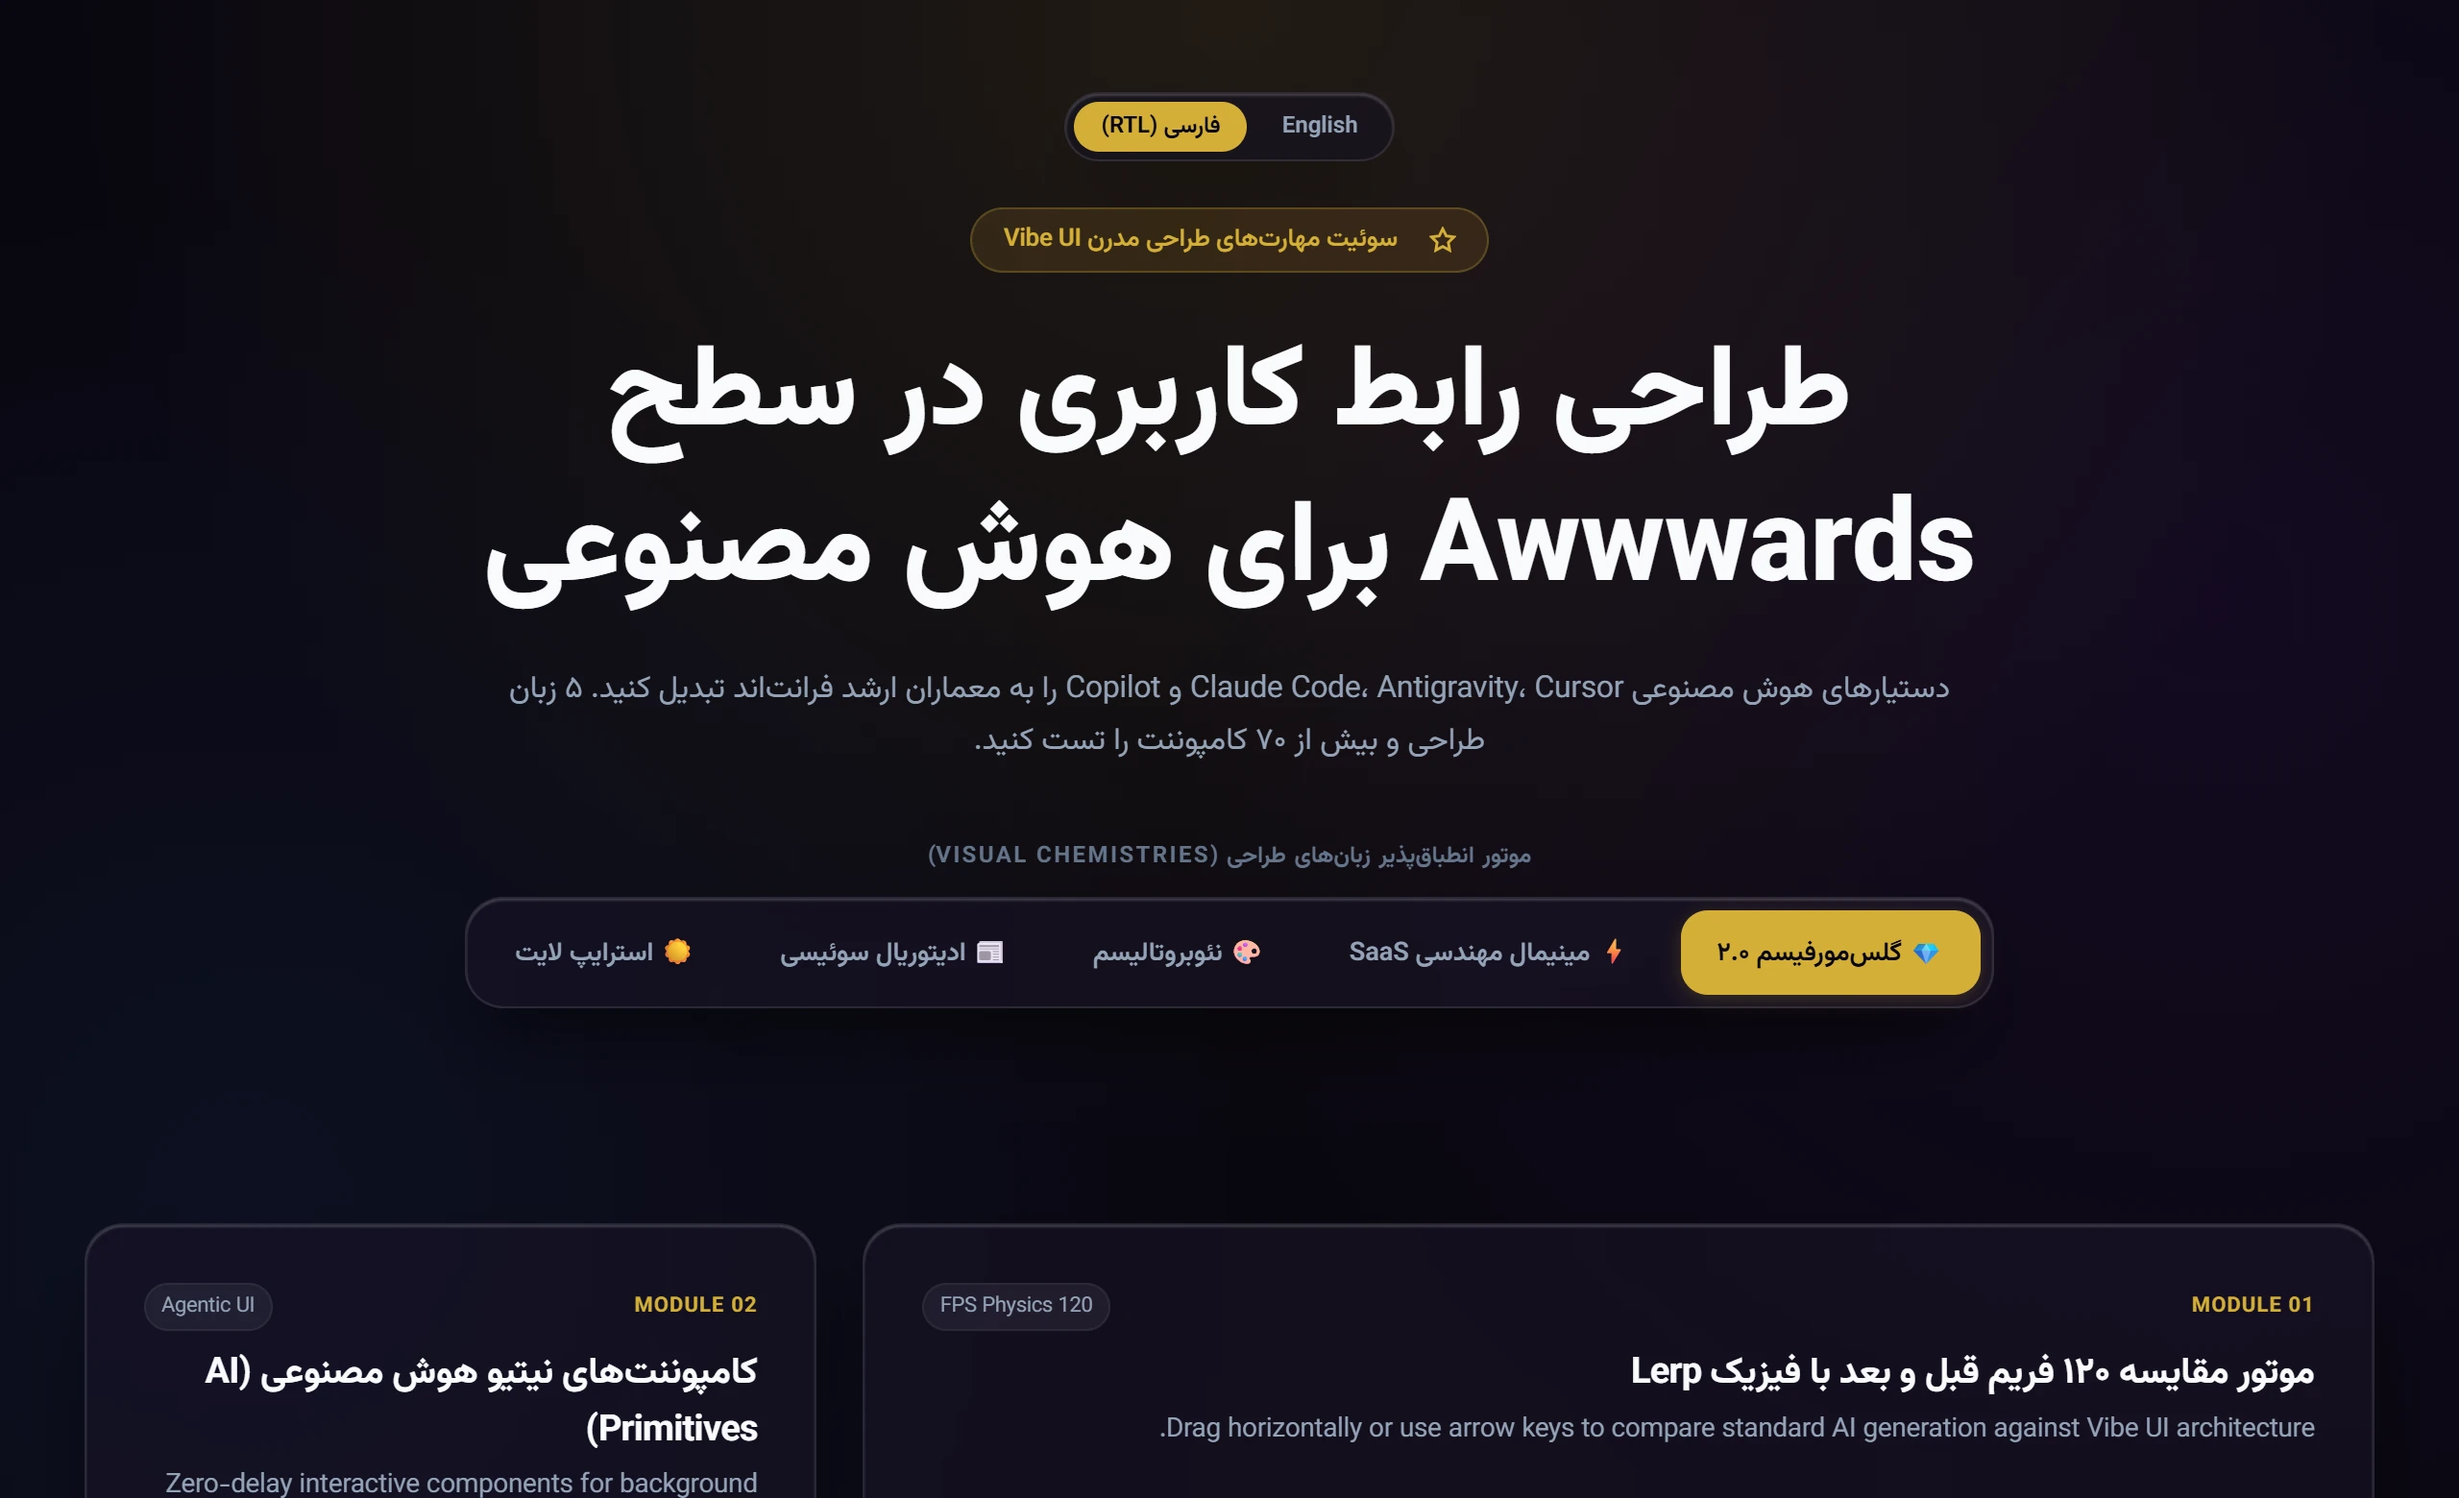
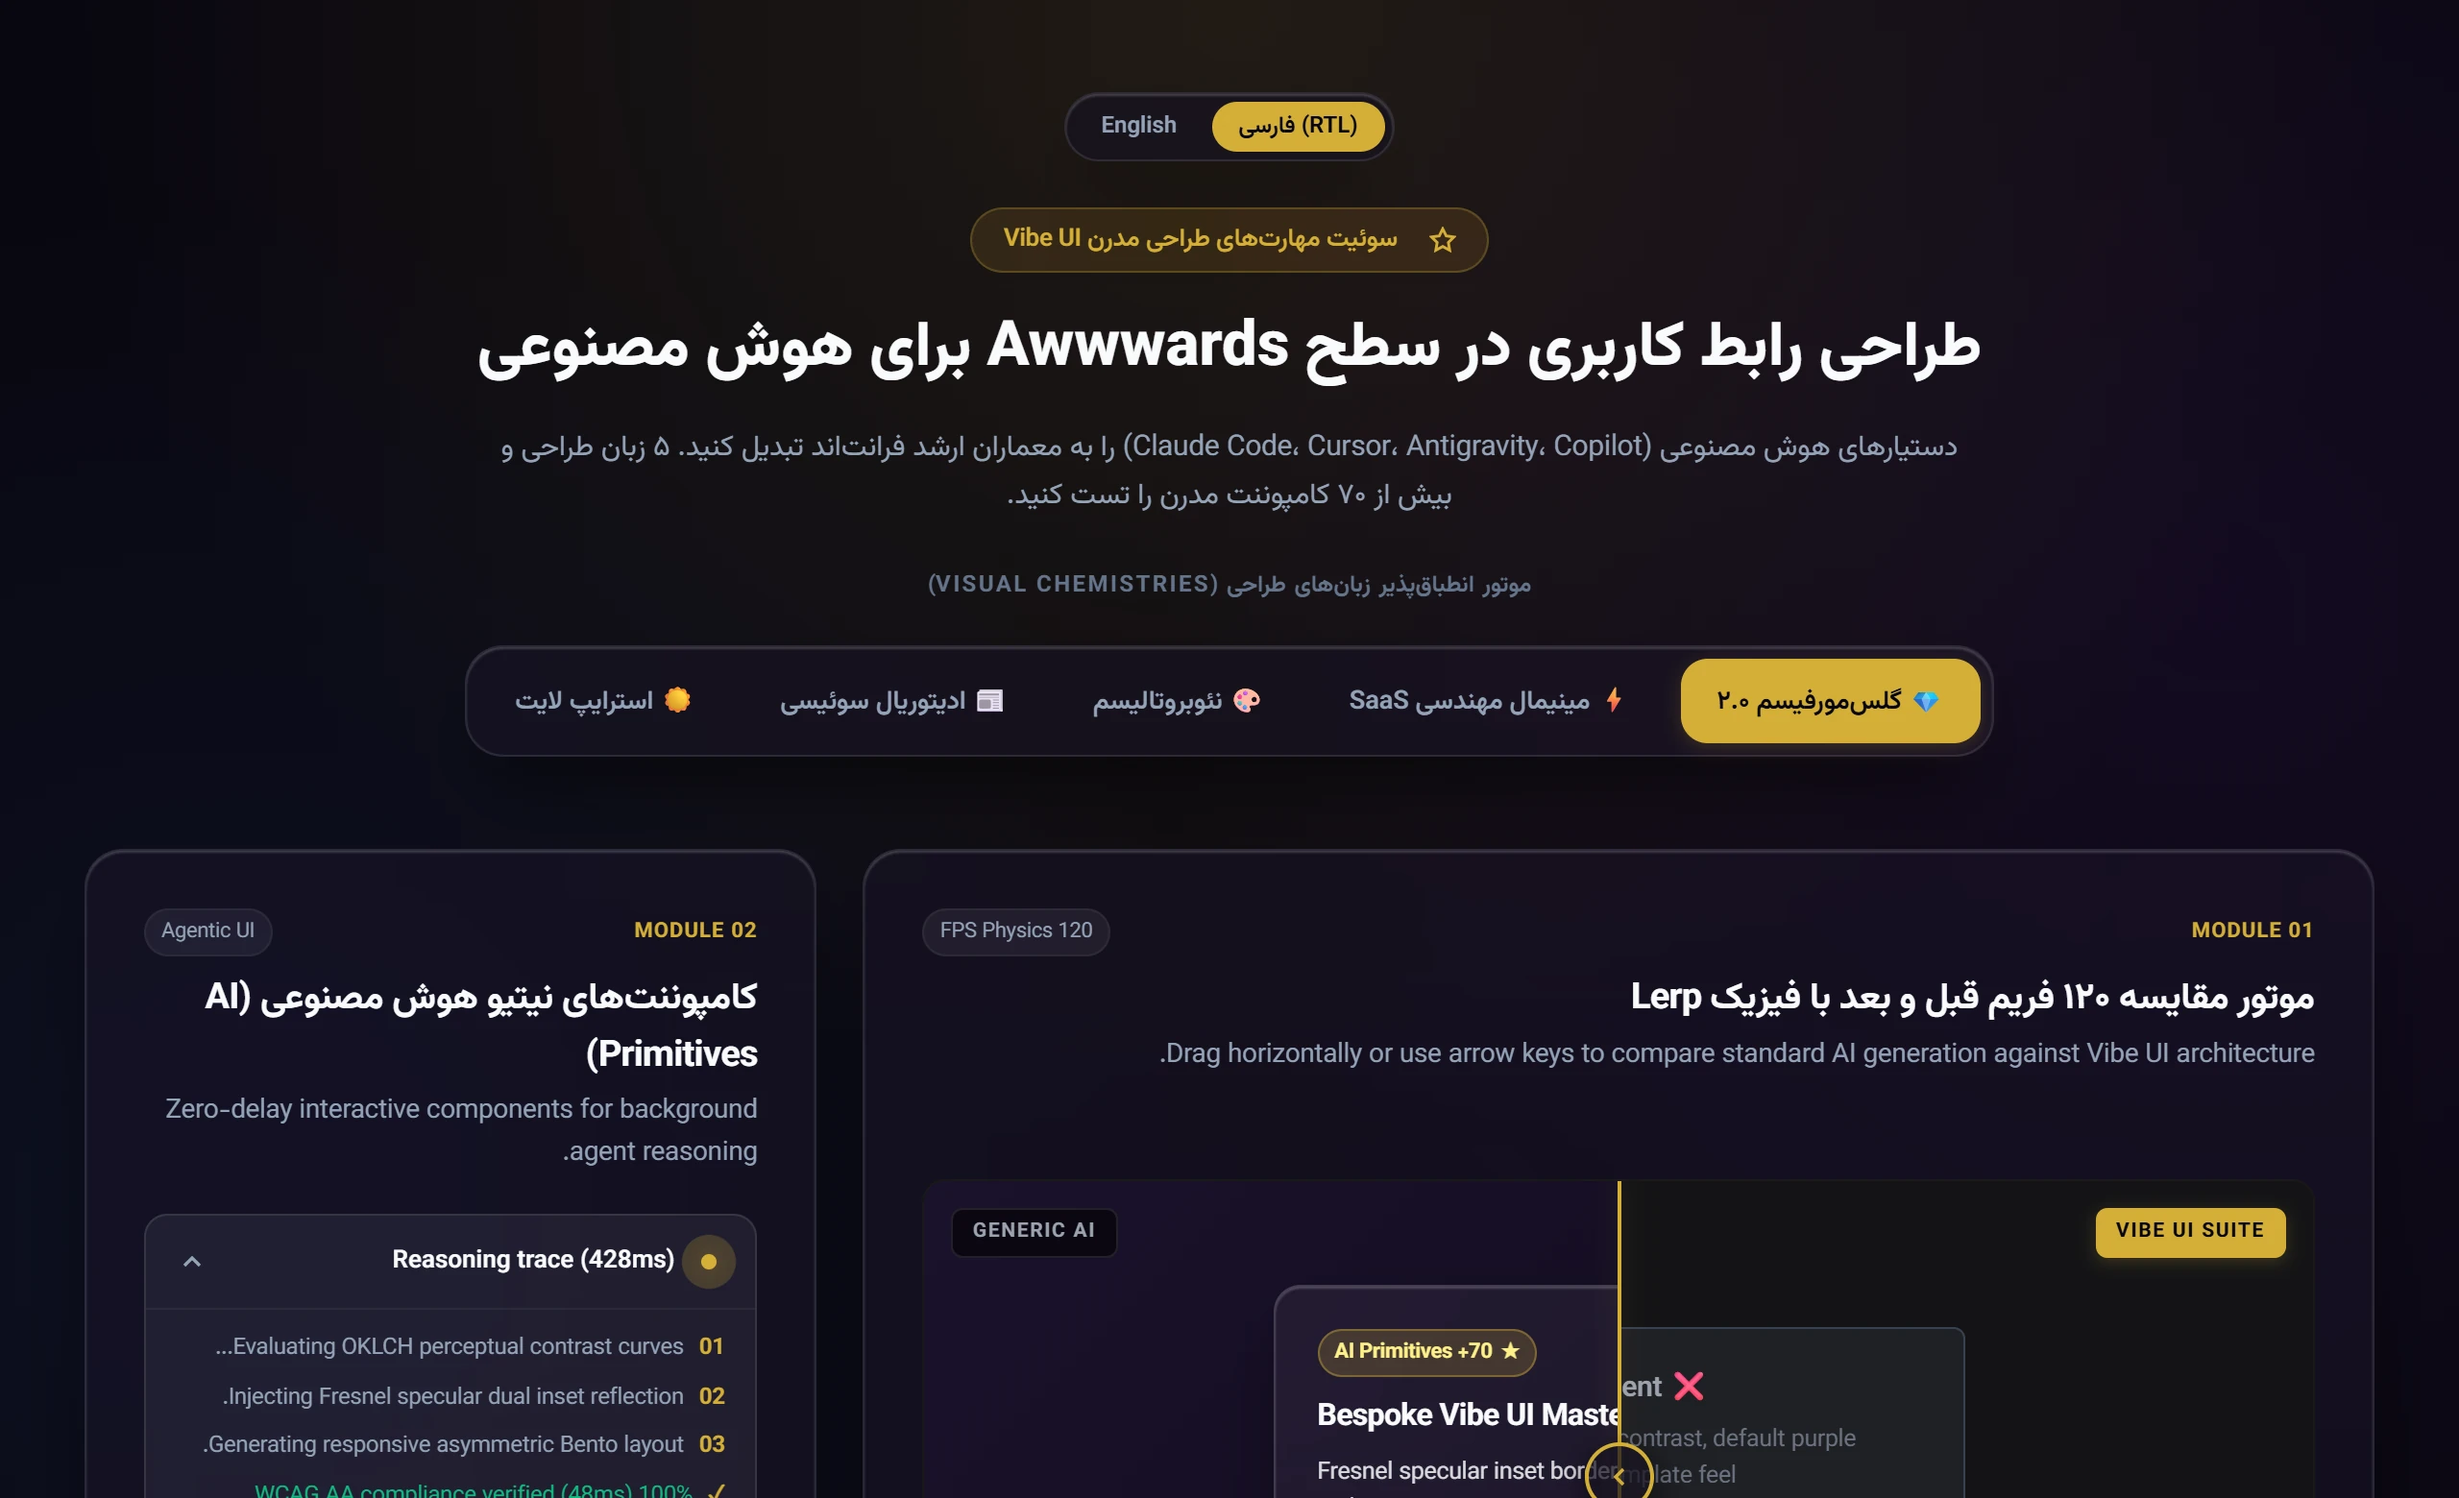
style(rtl): fit Persian hero title into 1 elegant line with clamp and perfect symmetry

diff --git a/index.html b/index.html
@@ -36,7 +36,7 @@
        CSS Custom Properties & Design Tokens for 5 Master Visual Themes
        ========================================================================== */
     
-    /* RTL & Persian Typography (Universal Match & Center Alignment) */
+    /* RTL & Persian Typography (Pixel-Perfect Symmetry & 1-Line Title) */
     html[dir="rtl"],
     html[dir="rtl"] body,
     html[dir="rtl"] *,
@@ -46,38 +46,82 @@
     [dir="rtl"] * {
       font-family: 'Vazirmatn', -apple-system, BlinkMacSystemFont, 'Segoe UI', Roboto, sans-serif !important;
     }
+    
     html[dir="rtl"] header,
     body[dir="rtl"] header {
-      text-align: center !important;
       display: flex !important;
       flex-direction: column !important;
       align-items: center !important;
-      justify-content: center !important;
-    }
-    html[dir="rtl"] h1,
-    body[dir="rtl"] h1 {
       text-align: center !important;
+      width: 100% !important;
       margin-left: auto !important;
       margin-right: auto !important;
-      max-width: 920px !important;
-      letter-spacing: normal !important;
-      line-height: 1.35 !important;
-      font-weight: 800 !important;
+      margin-bottom: 48px !important;
     }
-    html[dir="rtl"] .subtitle,
-    body[dir="rtl"] .subtitle {
-      text-align: center !important;
-      margin-left: auto !important;
-      margin-right: auto !important;
-      max-width: 780px !important;
-      line-height: 1.7 !important;
-      font-size: 16px !important;
+
+    html[dir="rtl"] .lang-switcher,
+    body[dir="rtl"] .lang-switcher {
+      margin: 0 auto 24px !important;
+      direction: ltr !important;
     }
+
     html[dir="rtl"] .badge-pill,
     body[dir="rtl"] .badge-pill {
-      margin-left: auto !important;
-      margin-right: auto !important;
+      margin: 0 auto 20px !important;
+      display: inline-flex !important;
+      align-items: center !important;
+      justify-content: center !important;
     }
+
+    html[dir="rtl"] h1,
+    body[dir="rtl"] h1 {
+      font-size: clamp(20px, 2.55vw, 36px) !important;
+      font-weight: 800 !important;
+      line-height: 1.3 !important;
+      letter-spacing: normal !important;
+      text-align: center !important;
+      width: 100% !important;
+      max-width: 1100px !important;
+      margin: 0 auto 16px !important;
+      display: block !important;
+      word-break: keep-all !important;
+    }
+
+    html[dir="rtl"] .subtitle,
+    body[dir="rtl"] .subtitle {
+      font-size: 15px !important;
+      line-height: 1.7 !important;
+      text-align: center !important;
+      max-width: 760px !important;
+      margin: 0 auto 24px !important;
+      color: var(--text-muted) !important;
+      display: block !important;
+    }
+
+    html[dir="rtl"] .style-switcher-container,
+    body[dir="rtl"] .style-switcher-container {
+      display: flex !important;
+      flex-direction: column !important;
+      align-items: center !important;
+      text-align: center !important;
+      width: 100% !important;
+      margin: 0 auto !important;
+    }
+
+    html[dir="rtl"] .style-switcher-label,
+    body[dir="rtl"] .style-switcher-label {
+      text-align: center !important;
+      margin-bottom: 10px !important;
+    }
+
+    html[dir="rtl"] .style-switcher,
+    body[dir="rtl"] .style-switcher {
+      display: inline-flex !important;
+      flex-wrap: wrap !important;
+      justify-content: center !important;
+      margin: 0 auto !important;
+    }
+
     html[dir="rtl"] .code-pill-text,
     html[dir="rtl"] .pill-tech,
     html[dir="rtl"] .telemetry-big-num,
@@ -86,6 +130,7 @@
     body[dir="rtl"] .telemetry-big-num {
       font-family: 'Geist Mono', 'Vazirmatn', monospace !important;
     }
+
     html[dir="rtl"] .badge-pill svg,
     html[dir="rtl"] .radar-pulse,
     html[dir="rtl"] .card-title svg,
@@ -2187,7 +2232,7 @@
       fa: {
         badge: "سوئیت مهارتهای طراحی مدرن Vibe UI",
         h1: "طراحی رابط کاربری در سطح Awwwards برای هوش مصنوعی",
-        subtitle: "دستیارهای هوش مصنوعی Claude Code، Antigravity، Cursor و Copilot را به معماران ارشد فرانتاند تبدیل کنید. ۵ زبان طراحی و بیش از ۷۰ کامپوننت را تست کنید.",
+        subtitle: "دستیارهای هوش مصنوعی (Claude Code، Cursor، Antigravity، Copilot) را به معماران ارشد فرانتاند تبدیل کنید. ۵ زبان طراحی و بیش از ۷۰ کامپوننت مدرن را تست کنید.",
         styleLabel: "موتور انطباقپذیر زبانهای طراحی (Visual Chemistries)",
         themeGlass: "💎 گلسمورفیسم ۲.۰",
         themeLinear: "⚡ مینیمال مهندسی SaaS",

diff --git a/showcase/index.html b/showcase/index.html
@@ -36,7 +36,7 @@
        CSS Custom Properties & Design Tokens for 5 Master Visual Themes
        ========================================================================== */
     
-    /* RTL & Persian Typography (Universal Match & Center Alignment) */
+    /* RTL & Persian Typography (Pixel-Perfect Symmetry & 1-Line Title) */
     html[dir="rtl"],
     html[dir="rtl"] body,
     html[dir="rtl"] *,
@@ -46,38 +46,82 @@
     [dir="rtl"] * {
       font-family: 'Vazirmatn', -apple-system, BlinkMacSystemFont, 'Segoe UI', Roboto, sans-serif !important;
     }
+    
     html[dir="rtl"] header,
     body[dir="rtl"] header {
-      text-align: center !important;
       display: flex !important;
       flex-direction: column !important;
       align-items: center !important;
-      justify-content: center !important;
-    }
-    html[dir="rtl"] h1,
-    body[dir="rtl"] h1 {
       text-align: center !important;
+      width: 100% !important;
       margin-left: auto !important;
       margin-right: auto !important;
-      max-width: 920px !important;
-      letter-spacing: normal !important;
-      line-height: 1.35 !important;
-      font-weight: 800 !important;
+      margin-bottom: 48px !important;
     }
-    html[dir="rtl"] .subtitle,
-    body[dir="rtl"] .subtitle {
-      text-align: center !important;
-      margin-left: auto !important;
-      margin-right: auto !important;
-      max-width: 780px !important;
-      line-height: 1.7 !important;
-      font-size: 16px !important;
+
+    html[dir="rtl"] .lang-switcher,
+    body[dir="rtl"] .lang-switcher {
+      margin: 0 auto 24px !important;
+      direction: ltr !important;
     }
+
     html[dir="rtl"] .badge-pill,
     body[dir="rtl"] .badge-pill {
-      margin-left: auto !important;
-      margin-right: auto !important;
+      margin: 0 auto 20px !important;
+      display: inline-flex !important;
+      align-items: center !important;
+      justify-content: center !important;
     }
+
+    html[dir="rtl"] h1,
+    body[dir="rtl"] h1 {
+      font-size: clamp(20px, 2.55vw, 36px) !important;
+      font-weight: 800 !important;
+      line-height: 1.3 !important;
+      letter-spacing: normal !important;
+      text-align: center !important;
+      width: 100% !important;
+      max-width: 1100px !important;
+      margin: 0 auto 16px !important;
+      display: block !important;
+      word-break: keep-all !important;
+    }
+
+    html[dir="rtl"] .subtitle,
+    body[dir="rtl"] .subtitle {
+      font-size: 15px !important;
+      line-height: 1.7 !important;
+      text-align: center !important;
+      max-width: 760px !important;
+      margin: 0 auto 24px !important;
+      color: var(--text-muted) !important;
+      display: block !important;
+    }
+
+    html[dir="rtl"] .style-switcher-container,
+    body[dir="rtl"] .style-switcher-container {
+      display: flex !important;
+      flex-direction: column !important;
+      align-items: center !important;
+      text-align: center !important;
+      width: 100% !important;
+      margin: 0 auto !important;
+    }
+
+    html[dir="rtl"] .style-switcher-label,
+    body[dir="rtl"] .style-switcher-label {
+      text-align: center !important;
+      margin-bottom: 10px !important;
+    }
+
+    html[dir="rtl"] .style-switcher,
+    body[dir="rtl"] .style-switcher {
+      display: inline-flex !important;
+      flex-wrap: wrap !important;
+      justify-content: center !important;
+      margin: 0 auto !important;
+    }
+
     html[dir="rtl"] .code-pill-text,
     html[dir="rtl"] .pill-tech,
     html[dir="rtl"] .telemetry-big-num,
@@ -86,6 +130,7 @@
     body[dir="rtl"] .telemetry-big-num {
       font-family: 'Geist Mono', 'Vazirmatn', monospace !important;
     }
+
     html[dir="rtl"] .badge-pill svg,
     html[dir="rtl"] .radar-pulse,
     html[dir="rtl"] .card-title svg,
@@ -2187,7 +2232,7 @@
       fa: {
         badge: "سوئیت مهارتهای طراحی مدرن Vibe UI",
         h1: "طراحی رابط کاربری در سطح Awwwards برای هوش مصنوعی",
-        subtitle: "دستیارهای هوش مصنوعی Claude Code، Antigravity، Cursor و Copilot را به معماران ارشد فرانتاند تبدیل کنید. ۵ زبان طراحی و بیش از ۷۰ کامپوننت را تست کنید.",
+        subtitle: "دستیارهای هوش مصنوعی (Claude Code، Cursor، Antigravity، Copilot) را به معماران ارشد فرانتاند تبدیل کنید. ۵ زبان طراحی و بیش از ۷۰ کامپوننت مدرن را تست کنید.",
         styleLabel: "موتور انطباقپذیر زبانهای طراحی (Visual Chemistries)",
         themeGlass: "💎 گلسمورفیسم ۲.۰",
         themeLinear: "⚡ مینیمال مهندسی SaaS",
